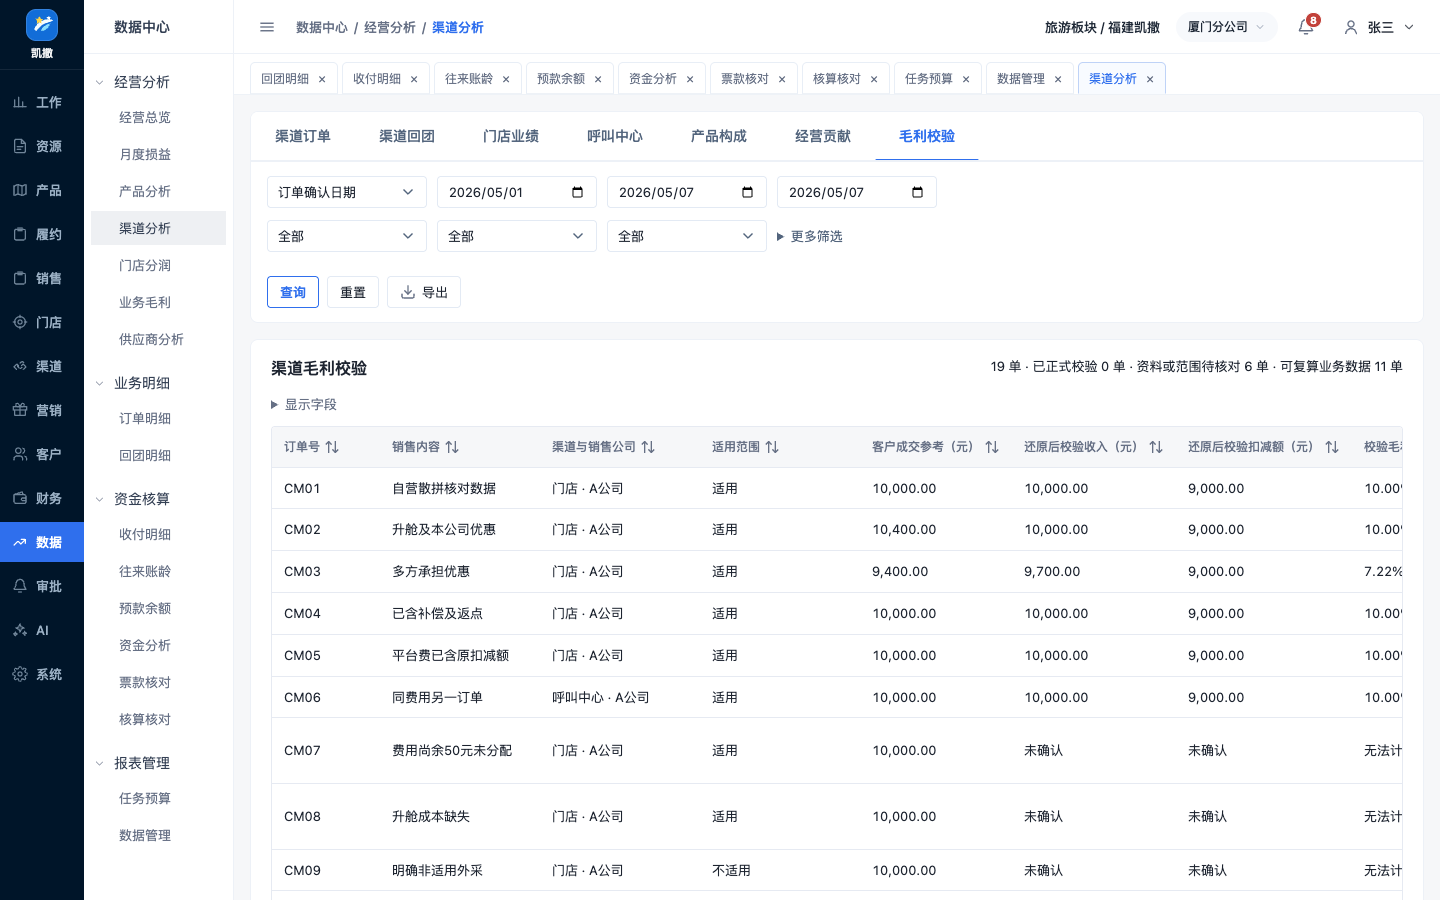
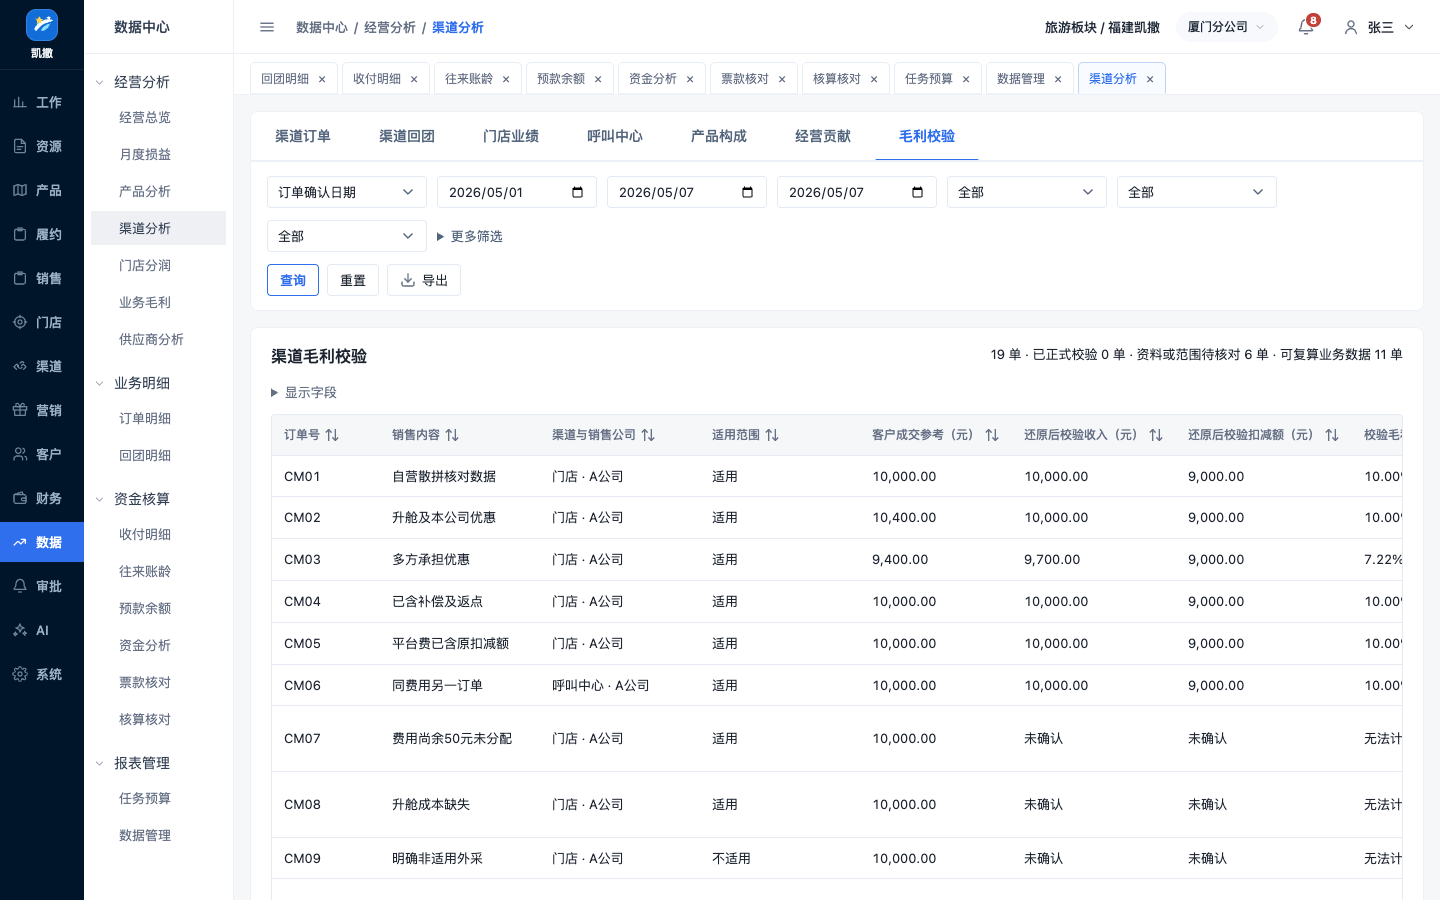
11

diff --git a/shared/data-report-ui.css b/shared/data-report-ui.css
@@ -386,3 +386,34 @@ html.data-report-ui-enabled .data-report-filter-surface details.data-filter-more
   outline: 2px solid var(--color-primary);
   outline-offset: 2px;
 }
+
+/* One continuous filter flow; spacing is owned by the container, not each field. */
+html.data-report-ui-enabled .data-report-filter-surface {
+  display: flex;
+  flex-wrap: wrap;
+  align-items: center;
+  gap: 12px 10px;
+  padding: 14px 16px;
+}
+html.data-report-ui-enabled .data-report-filter-surface .data-filter-inline-row:not([hidden]),
+html.data-report-ui-enabled .data-report-filter-surface .data-filter-inline-wrapper:not([hidden]) {
+  display: contents;
+}
+html.data-report-ui-enabled .data-report-filter-surface :is(.report-field, .cf-field),
+html.data-report-ui-enabled .data-report-filter-surface details.data-filter-more > summary,
+html.data-report-ui-enabled .data-report-filter-surface :is(.report-query-actions, .cf-filter-actions) {
+  margin: 0;
+}
+html.data-report-ui-enabled .data-report-filter-surface :is(.report-query-actions, .cf-filter-actions) {
+  flex: 0 0 100%;
+}
+html.data-report-ui-enabled .data-report-filter-surface :is(.report-more, .cf-more)[open] .report-filter-row,
+html.data-report-ui-enabled .data-report-filter-surface .cf-filter-more {
+  padding-top: 0;
+}
+html.data-report-ui-enabled .data-report-filter-surface .report-order-filter-groups {
+  flex: 0 0 100%;
+  margin: 0;
+  display: grid;
+  gap: 12px;
+}

diff --git a/shared/data-report-ui.js b/shared/data-report-ui.js
@@ -82,6 +82,10 @@
   }
 
   function positionMoreFilters(form) {
+    form.querySelectorAll('.report-filter-row').forEach(row => {
+      if (!row.closest('details')) row.classList.add('data-filter-inline-row');
+    });
+    form.querySelectorAll(':scope > [data-filters], :scope > [data-margin-filters]').forEach(wrapper => wrapper.classList.add('data-filter-inline-wrapper'));
     const more = form.querySelector('details.report-more, details.cf-more');
     form.classList.toggle('data-filter-has-more', Boolean(more));
     if (!more) return;

diff --git a/docs/业财报表自动化改造进度.md b/docs/业财报表自动化改造进度.md
@@ -831,6 +831,13 @@
 
 ## 三、当前步骤
 
+**当前恢复位置（2026-09-15）：** 按用户最新截图，恢复到搜索区间距与条件连续排列统一完成的结果。之后的排序方案与两步实施均已撤回，原有排序行为保留；搜索区12px间距、放得下不提前换行、更多筛选跟随最后条件及此前菜单调整保留。
+
+
+
+
+**搜索条件连续排列及间距统一（2026-09-15）：** 按用户两张截图修正数据中心共享搜索区。条件容器统一连续流，原分组不再强制另起一行；保留条件顺序及隐藏状态，放不下才自然换行。删除条件下边距与行距叠加，条件行和操作按钮统一12px间距。已检查93Tab、76个更多筛选开合与跟随位置，无脚本错误；订单/回团/渠道/月度损益四页坐标及截图证据见outputs/20260915-filter-spacing。下一步仍按用户指定页面推进，不改变财务数据或规则。
+
 **更多筛选位置再次调整（2026-09-15）：** 按用户最新要求取消首行右侧固定定位及预留空白，入口随当前可见的最后一组常用搜索条件排列，空间不足自然换行；展开条件保留在下一行。共享data-report-ui.js/css已改，93Tab核对及76个更多筛选位置/开合通过，无页面脚本错误；证据outputs/20260915-filter-follow/results.json。当前规则替代此前首行右对齐约定，下一步按用户指定页面推进。
 
 **二级导航宽度微调（2026-09-15）：** 用户认为右侧留白过多，按确认方案将共享二级栏180px收窄至150px，字号、缩进、行高及单行规则保持。数据/财务/资源/履约四模块浏览器检查通过，五至六字菜单完整显示；差异检查通过。本次显示调整完成，下一步仍按用户指定页面推进。
@@ -883,7 +890,7 @@
 
 当前计划工作线唯一下一步：双方项目负责人按甲方版工作簿确认参与人员、评审场次、业务样例及资料准备，组织9/18一期范围与验收安排评审；协调指定系统供应方参与。合同及NC一期过渡办法在联合验收前由业务、财务确认，计划不代替批准。
 
-报表页面工作线唯一下一步：等待用户指定后续页面；成本构成、部门费用、门店分润已完成本次原型与验收。正式来源及其他经营补齐仍登记未完成，不自动恢复已跳过统计日历/来源核对或暂缓产品考核。
+报表页面工作线唯一下一步：已恢复至搜索区统一完成的结果；等待用户指定后续工作，不自动重新开始排序方案或实施。此前成本构成、部门费用、门店分润已完成本次原型与验收。正式来源及其他经营补齐仍登记未完成，不自动恢复已跳过统计日历/来源核对或暂缓产品考核。
 
 门店专项唯一下一步：待用户核对第7页财务预存账户；确认后本轮逐页最小调整收尾。收付款配置已按用户要求独立放在NC推送后面，不再重复修改资金池；不自动执行旧版整体重构、原第10组或其他页面。
 

diff --git a/docs/财务要求-现有功能-缺口-修改对照表.md b/docs/财务要求-现有功能-缺口-修改对照表.md
@@ -1289,3 +1289,12 @@
 | 财务要求 | 现有功能 | 缺口 | 修改页面/流程 | 验收方式 |
 |---|---|---|---|---|
 | 入口跟随最后一个搜索条件 | 此前首行右侧固定 | 不符合用户最新排列要求 | 共享搜索适配及样式取消定位与右侧占位，跟随可见条件自然换行，保留原展开内容 | 93Tab及76个入口位置、开合和脚本错误检查通过；outputs/20260915-filter-follow/results.json |
+
+
+## 搜索条件流与间距统一（2026-09-15）
+
+| 财务要求 | 现有功能 | 缺口 | 修改页面/流程 | 验收方式 |
+|---|---|---|---|---|
+| 条件放得下不提前换行；条件与操作间距统一 | 旧分组各自占行，字段下边距与容器行距叠加 | 回团日期口径单独占行，条件行空白过大 | 数据中心共享data-report-ui.js/css将常用条件连续排列，容器统一12px行距，更多筛选继续跟随 | 93Tab及76入口检查；四页几何坐标和截图见outputs/20260915-filter-spacing |
+
+恢复记录：按用户最新截图，搜索区统一之后的排序方案与两步实施均撤回。当前交付仍为上节搜索条件流与间距统一，原排序行为保留。

diff --git a/docs/集团财务报表执行清单.md b/docs/集团财务报表执行清单.md
@@ -253,3 +253,7 @@ git diff --check
 ### 2026-09-15 用户指定门店分润交付
 
 见[门店分润验收](门店分润新增与验收-20260915.md)：按用户明确新增经营分析第17入口及3个独立主题，当前93Tab。70项计算、新浏览器16组、渠道回归14组通过；原8批状态保持。三个用户指定页面均完成本次原型，正式规则/来源/授权及其他方案仍未完；后续由用户指定。
+
+### 2026-09-15恢复位置
+
+按用户最新截图撤回之后的排序方案及两步实施，恢复搜索区统一完成状态；原8批及既有页面、菜单保持。
